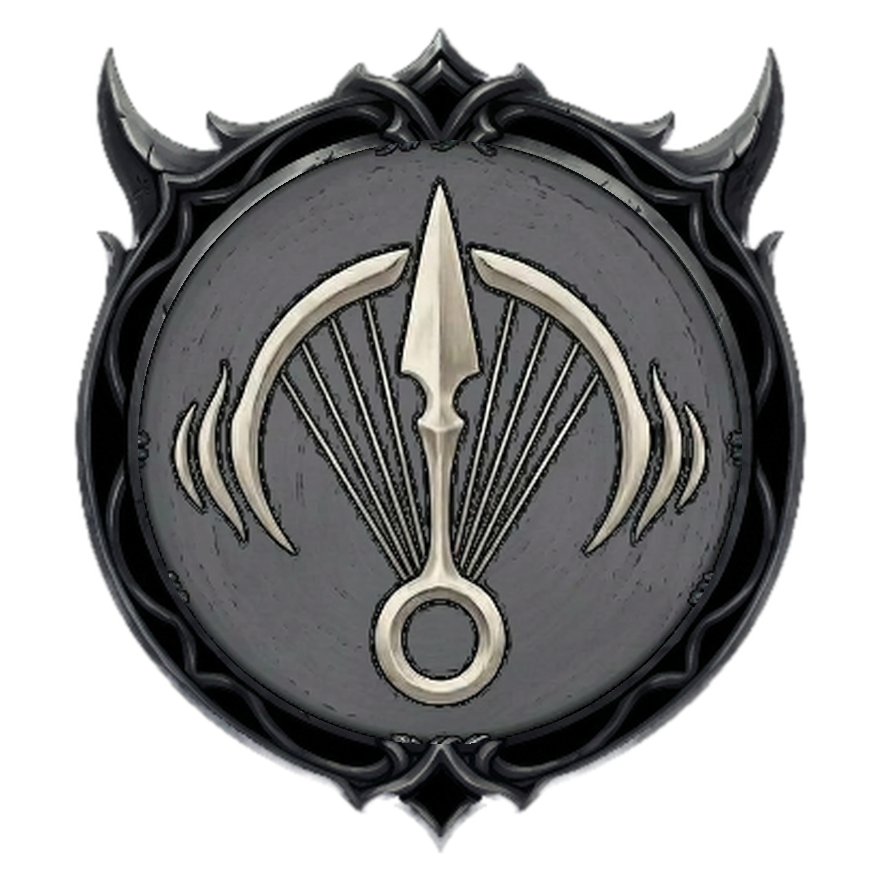
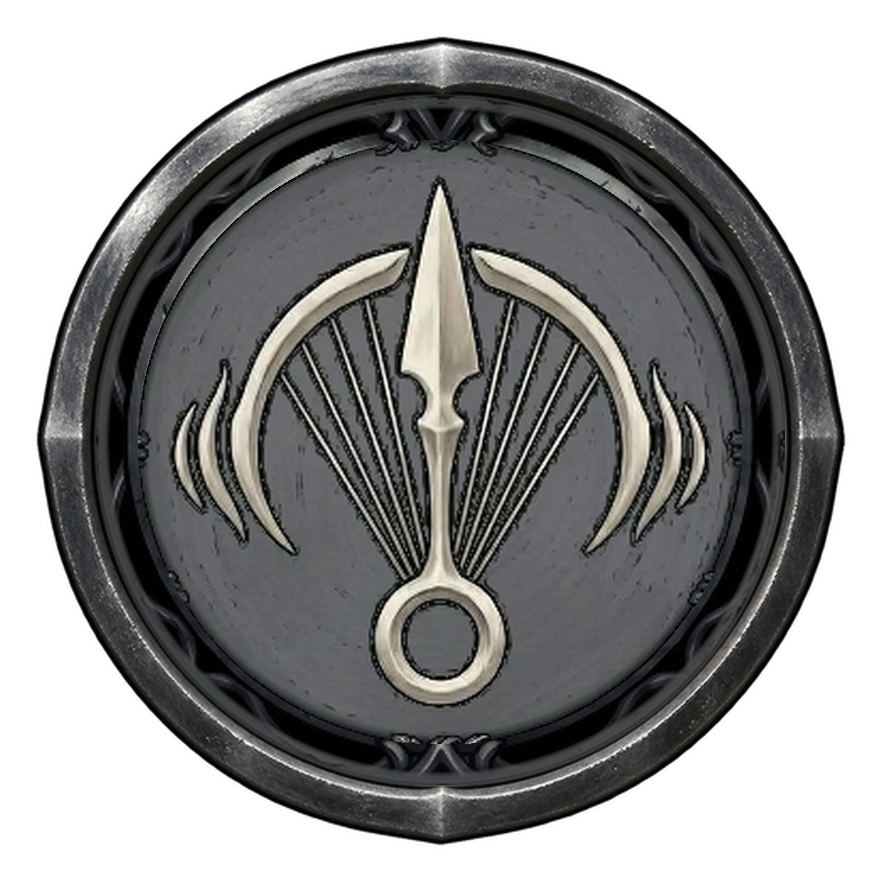
Silksong pad: the quarter-fan layout by default, the eye hides Needolin too, and a layout editor on a long eye press
- k_skin: the approved fan layout (jump the enlarged pivot at the corner,
  attack / dash / bind equal keys on its quarter arc, tool and Clawline in
  the left column, Needolin above Bind, the top row respaced for four)
- Needolin joins grp SK_SKILL: the eye key now hides tool, Clawline and
  Needolin; its black-iron art trades the double-horn frame for the round
  metal ring (the original disc under it, the pressed art likewise)
- Layout editor: holding the eye key 0.6s freezes the pad and shows every
  key; drag to move, tap to select, the bar's - / + steppers scale 0.6-1.6x,
  restore-defaults clears; per-key centre offsets and size multipliers are
  kept in NSUserDefaults (DmPadCustom) and applied in skinCenter / skinR,
  so drawing and hit tests agree in every skin set; the stick is editable
  too and the invisible Up key rides on it

Changed region(s): [[0.0307, 0.0307, 0.9818, 0.9818]]

diff --git a/dm/ios/Sources/DmGamepad.m b/dm/ios/Sources/DmGamepad.m
@@ -30,7 +30,7 @@
 #include <stdatomic.h>
 
 enum { B_A = 0, B_B, B_X, B_Y, B_LS, B_RS, B_L, B_R, B_ZL, B_ZR, B_PLUS, B_MINUS, B_LEFT, B_UP, B_RIGHT, B_DOWN, B_N };
-enum { C_NONE = 0, C_STICK, C_DPAD, C_FACE, C_BTN, C_SWAP, C_GAME };   // which control a touch holds; C_GAME: none, the touch goes to the game's touch screen (finger slot << 8)
+enum { C_NONE = 0, C_STICK, C_DPAD, C_FACE, C_BTN, C_SWAP, C_GAME, C_EDIT };   // which control a touch holds; C_GAME: none, the touch goes to the game's touch screen (finger slot << 8); C_EDIT: the layout editor's drag (the key << 8)
 
 static pthread_mutex_t g_mu = PTHREAD_MUTEX_INITIALIZER;
 static uint64_t g_touch_btn, g_shake_btn;
@@ -133,34 +133,74 @@ int dm_opmode(void);   // hle_oe.c: 0 = handheld
 // Drawn controls are replaced by image controls in the layout of the fan Android port of Silksong: a fixed stick disc
 // bottom-left (its medallion knob follows the touch), the action keys bottom-right in two rows, quick map / inventory / pause
 // small at the top-right. Centres are fractions of the whole screen, radii a fraction of its width. Keys follow the game's
-// Switch defaults. Two skill keys (grp SK_SKILL: tool, Clawline) do nothing until the skill is earned and
+// Switch defaults. Three skill keys (grp SK_SKILL: tool, Clawline, Needolin) do nothing until the skill is earned and
 // the pad cannot know the game's progress, so the eye key (grp SK_TOGGLE, not a game key) shows or hides them for
 // the session; they start hidden at each launch, the eye in its pressed state (the default the player asked
-// for, set explicitly in init).
+// for, set explicitly in init). Holding the eye key for 0.6s instead opens the layout editor: every key (and the
+// stick) can be dragged to a new centre and scaled, the result kept in NSUserDefaults (DmPadCustom, below).
 static BOOL padSkin(void) { const char *e = getenv("DM_PAD_SKIN"); return e && atoi(e); }
 static int silkSkinMode(void) { const char *e = getenv("DM_SILK_SKIN"); int m = e ? atoi(e) : 1; return m < 0 ? 0 : m > 3 ? 3 : m; }   // the launcher's button-skin choice for this pad: 0 glass, 1 the image skin, 2 the letter-badge skin (dm/padskin-badge), 3 the black-iron skin (dm/padskin-metal, the plain set's canvas, so no badge scaling); the image skin (1) when unset
 enum { SK_ALWAYS, SK_SKILL, SK_TOGGLE };
 static const struct { const char *art; int bit; int grp; CGFloat x, y, r; } k_skin[] = {
-    {"attack",   B_Y,     SK_ALWAYS, 0.6919, 0.8198, 0.0389},   // needle attack
-    {"jump",     B_B,     SK_ALWAYS, 0.785, 0.8198, 0.0389},
-    {"dash",     B_ZR,    SK_ALWAYS, 0.878, 0.8198, 0.0389},   // Swift Step: tap dashes, hold sprints
-    {"tool",     B_R,     SK_SKILL,  0.878, 0.4156, 0.0389},   // the equipped tool: the cluster's top right (Needolin's old seat), in its original round frame; an eye-key skill key
-    {"needolin", B_X,     SK_ALWAYS, 0.783, 0.080, 0.023},   // Needolin: the top row, between map and bag, in the double-horn frame; always shown (not an eye-key skill key)
-    {"bind",     B_A,     SK_ALWAYS, 0.878, 0.6177, 0.0389},   // Bind (heal)
-    {"clawline", B_ZL,    SK_SKILL,  0.785, 0.6177, 0.0389},   // Clawline (swapped with Needolin)
-    {"eye",      0,       SK_TOGGLE, 0.672, 0.080, 0.023},   // show / hide the skill keys
-    {"map",      B_L,     SK_ALWAYS, 0.727, 0.080, 0.023},   // quick map (the top row respaced evenly for five keys)
-    {"bag",      B_MINUS, SK_ALWAYS, 0.838, 0.080, 0.023},   // inventory
-    {"pause",    B_PLUS,  SK_ALWAYS, 0.893, 0.080, 0.023},
+    {"attack",   B_Y,     SK_ALWAYS, 0.770, 0.770, 0.0416},   // needle attack: the fan's left key, level with the jump pivot
+    {"jump",     B_B,     SK_ALWAYS, 0.898, 0.770, 0.0533},   // the fan's pivot at the bottom-right corner, the largest key
+    {"dash",     B_ZR,    SK_ALWAYS, 0.808, 0.574, 0.0416},   // Swift Step: tap dashes, hold sprints; the fan's 45-degree key
+    {"tool",     B_R,     SK_SKILL,  0.675, 0.770, 0.0352},   // the equipped tool: the left column, level with attack; an eye-key skill key
+    {"needolin", B_X,     SK_SKILL,  0.898, 0.290, 0.0352},   // Needolin: above Bind, in its original round frame; an eye-key skill key (the eye hides it with the other two)
+    {"bind",     B_A,     SK_ALWAYS, 0.898, 0.493, 0.0416},   // Bind (heal): the fan's top key, straight above the jump pivot
+    {"clawline", B_ZL,    SK_SKILL,  0.675, 0.574, 0.0352},   // Clawline: the left column, level with dash; an eye-key skill key
+    {"eye",      0,       SK_TOGGLE, 0.710, 0.082, 0.0224},   // show / hide the skill keys
+    {"map",      B_L,     SK_ALWAYS, 0.786, 0.082, 0.0224},   // quick map (the top row respaced evenly for four keys)
+    {"bag",      B_MINUS, SK_ALWAYS, 0.862, 0.082, 0.0224},   // inventory
+    {"pause",    B_PLUS,  SK_ALWAYS, 0.938, 0.082, 0.0224},
     {"up",       B_UP,    SK_ALWAYS, 0.162, 0.628, 0.022},   // invisible in both skins (fully transparent art, no glass disc): the game's Up + R tool prompts read the D-pad, never the stick. On the stick disc's own up-pointing rim triangle, small enough that its hit circle (r x 1.35) stops well short of the disc centre, so a centred touch still starts the stick; skinCenter keeps it at raw fractions, anchored to the disc rather than the stacking cluster
 };
 #define SKIN_N (int)(sizeof k_skin / sizeof k_skin[0])
 #define SKIN_REF_HW 0.4615   // the screen the skin layout was measured on (19.5:9): its height as a fraction of its width
-static CGPoint skinCenter(int i, CGRect b) {   // the centre of skin key i, in points (the layout and the touch hit test share it)
+static CGPoint skinCenterRaw(int i, CGRect b) {   // the centre of skin key i from the table alone, in points (the layout and the touch hit test share it)
     CGFloat y = k_skin[i].y;
     if (y > 0.2 && k_skin[i].bit != B_UP)   // an action key: the rows stack up from the bottom row (y 0.822) in width fractions, so the cluster keeps its phone shape on any screen; the top row stays a height fraction (it hugs the top edge). The D-pad Up key is exempt: it is anchored to the stick disc, which sits at raw fractions
         y = 0.822 + (y - 0.822) * SKIN_REF_HW * b.size.width / b.size.height;
     return CGPointMake(k_skin[i].x * b.size.width, y * b.size.height);
+}
+// ---- Custom layout (the eye key's long-press editor) ----
+// The player can move every skin key (and the stick) and scale it between 0.6x and 1.6x; per key only the
+// centre's offset from the table (as screen fractions) and the size multiplier are kept, in NSUserDefaults
+// under DmPadCustom like DmPadLayout is, so an over-install keeps them and "restore defaults" is clearing the
+// key. skinCenter and skinR apply them, so the drawing, the hit test and the hit area all agree, in every skin
+// art set (the geometry is shared). The slot SKIN_N is the stick; the invisible Up key rides on it (its centre
+// and size follow the stick's), being anchored to the disc.
+static NSString *const k_custom_key = @"DmPadCustom";
+static CGFloat g_custDX[SKIN_N + 1], g_custDY[SKIN_N + 1], g_custS[SKIN_N + 1];
+static BOOL g_custReady;
+static void custLoad(void) {
+    if (g_custReady) return; g_custReady = YES;
+    for (int i = 0; i <= SKIN_N; i++) g_custS[i] = 1;
+    NSDictionary *d = [NSUserDefaults.standardUserDefaults dictionaryForKey:k_custom_key];
+    for (int i = 0; i <= SKIN_N; i++) {
+        NSDictionary *e = d[i == SKIN_N ? @"stick" : [NSString stringWithUTF8String:k_skin[i].art]];
+        if (!e) continue;
+        g_custDX[i] = [e[@"dx"] doubleValue]; g_custDY[i] = [e[@"dy"] doubleValue];
+        CGFloat s = [e[@"s"] doubleValue]; if (s >= 0.6 && s <= 1.6) g_custS[i] = s;
+    }
+}
+static void custSave(void) {
+    NSMutableDictionary *d = [NSMutableDictionary dictionary];
+    for (int i = 0; i <= SKIN_N; i++) if (g_custDX[i] || g_custDY[i] || g_custS[i] != 1)
+        d[i == SKIN_N ? @"stick" : [NSString stringWithUTF8String:k_skin[i].art]] = @{@"dx": @(g_custDX[i]), @"dy": @(g_custDY[i]), @"s": @(g_custS[i])};
+    [NSUserDefaults.standardUserDefaults setObject:d forKey:k_custom_key];
+}
+static int custSlot(int i) { return k_skin[i].bit == B_UP ? SKIN_N : i; }   // the Up key's slot is the stick's
+static CGFloat skinR(int i) { custLoad(); return k_skin[i].r * g_custS[custSlot(i)]; }   // skin key i's radius (a fraction of the width) with the player's size multiplier
+static CGPoint clampCentre(CGPoint c, CGFloat rp, CGRect b) {   // keep at least ~40% of the key (2 * rp across) on screen
+    CGFloat m = 0.2 * rp;
+    return CGPointMake(fmin(fmax(c.x, -m), b.size.width + m), fmin(fmax(c.y, -m), b.size.height + m));
+}
+static CGPoint skinCenter(int i, CGRect b) {   // the centre the pad draws and hit-tests at: the table's centre plus the player's custom offset
+    custLoad();
+    CGPoint c = skinCenterRaw(i, b); int s = custSlot(i);
+    c.x += g_custDX[s] * b.size.width; c.y += g_custDY[s] * b.size.height;
+    return clampCentre(c, skinR(i) * b.size.width, b);
 }
 #define SILK_BADGE_SCALE (1020.0 / 880.0)   // the badge set's canvas over the plain set's (the disc sits centred in the larger canvas, badge medallion below it)
 static BOOL silkBadged(const char *name) {   // the padskin keys the badge set bakes a letter medallion into: every k_skin art but the Up key (invisible in both skins, never badged); the eye carries its ON / OFF state word instead of a letter
@@ -395,6 +435,12 @@ static void pads_start(void);   // Physical controllers, below
     CAShapeLayer *_sSym[SKIN_N];                   // drawn glyphs: the - / + bars and the eye's pupil dot (text glyphs ride high, and an eye has no letter)
     UIView *_sStick, *_sKnob;                      // the glass stick disc and its knob
     BOOL _skillOff;                                // the skill keys (grp SK_SKILL) are hidden by the eye key
+    BOOL _editing;                                 // the layout editor is up (a long press on the eye key): the pad drives nothing, every key shows, drags rearrange it
+    int _editSel, _editItem;                       // the editor's selected key and the one being dragged (a k_skin index, SKIN_N = the stick, -1 = none)
+    UITouch *_editTouch; CGPoint _editGrab;        // the editor's drag in flight: its touch and where in the key it holds it
+    UITouch *_eyeTouch; CGPoint _eyePoint; NSTimer *_eyeTimer; BOOL _eyeFired, _eyeMoved;   // the eye key's touch, watched for the editor's long press (a drag of the key in the editor disarms it)
+    UIView *_editBar; UILabel *_editInfo; UIButton *_editMinus, *_editPlus, *_editReset, *_editDone;   // the editor's bar across the top: the selected key's size, its - / + steppers, restore defaults, done
+    CAShapeLayer *_editRing;                       // the ring around the editor's selected key
     CALayer *_skipKey, *_padKey;   // the cutscene keys: the skin's Skip medallion at the Bind key's place, its Pad medallion at the eye key's place (drawn in every skin mode, glass included)
     int _padMode; BOOL _padPeek;                   // the host's pad mode (hle_hid.c dm_pad_mode) and the player's recall of the pad for the rest of the mode
     int _padTab;                                   // the host's inventory tab (dm_pad_tab) as last polled: a change inside the inventory only re-runs refresh (the bag X key follows the crests tab)
@@ -460,6 +506,7 @@ static BOOL fullOnly(int b) { return b == B_LS || b == B_RS || b >= B_LEFT; }   
             _skinDisc = imgLayer(_controls, "stick"); _skinDisc.opacity = 0.75;
             _skinKnob = imgLayer(_controls, "knob"); _skinKnob.opacity = 0.95;
             for (int i = 0; i < SKIN_N; i++) { _skinBtn[i] = imgLayer(_controls, k_skin[i].art); _skinBtn[i].opacity = 1.0; }
+            _editRing = shape(_controls); _editRing.fillColor = nil; _editRing.strokeColor = UIColor.whiteColor.CGColor; _editRing.lineWidth = 2; _editRing.shadowOpacity = 0; _editRing.hidden = YES;   // the layout editor's selection ring
             for (int i = 0; i < SKIN_N; i++) if (silkLetter(i)) { _letBtn[i] = imgLayer(_controls, silkLetter(i)); _letBtn[i].hidden = YES; }   // the controller pages' letter layers: applyPadMode shows each in its key's place
             for (int j = 0; j < TITLE_N; j++) { _titleBtn[j] = imgLayer(_controls, k_title[j].art); _titleBtn[j].hidden = YES; }   // the title screen's letter keys: applyPadMode shows them on the title screen
             for (int j = 0; j < BAG_N; j++) { _bagBtn[j] = imgLayer(_controls, k_bag[j].art); _bagBtn[j].hidden = YES; }   // the bag layout's keys: applyPadMode shows them while the inventory is open
@@ -491,6 +538,14 @@ static BOOL fullOnly(int b) { return b == B_LS || b == B_RS || b >= B_LEFT; }   
             if (!_sSkinMode) { _skinDisc.hidden = YES; _skinKnob.hidden = YES; for (int i = 0; i < SKIN_N; i++) _skinBtn[i].hidden = YES; }
             for (int b = 0; b < B_N; b++) { _key[b].hidden = YES; if (_label[b]) _label[b].hidden = YES; }
             _swap.hidden = YES; _swapLabel.hidden = YES; _ring.hidden = YES; _knob.hidden = YES;
+            _editBar = [[UIView alloc] initWithFrame:CGRectZero];   // the layout editor's bar: built once, shown only while editing (added last, above the glass box)
+            _editBar.backgroundColor = [UIColor colorWithWhite:0 alpha:0.55]; _editBar.layer.cornerRadius = 10; _editBar.hidden = YES;
+            [self addSubview:_editBar];
+            _editInfo = [[UILabel alloc] init]; _editInfo.textColor = UIColor.whiteColor; _editInfo.font = [UIFont systemFontOfSize:16]; [_editBar addSubview:_editInfo];
+            _editMinus = [self editButton:@"-" action:@selector(editMinusTapped)];
+            _editPlus = [self editButton:@"+" action:@selector(editPlusTapped)];
+            _editReset = [self editButton:[NSString stringWithUTF8String:"\xE6\x81\xA2\xE5\xA4\x8D\xE9\xBB\x98\xE8\xAE\xA4"] action:@selector(editResetTapped)];   // "restore defaults"
+            _editDone = [self editButton:[NSString stringWithUTF8String:"\xE5\xAE\x8C\xE6\x88\x90"] action:@selector(editDoneTapped)];   // "done"
             _padMode = dm_pad_mode(); _padTab = dm_pad_tab(); _padPage = dm_pad_page();   // the watcher's state as it stands: -1 (unpublished) until it derives its first mode
             [self applyPadMode];   // the pad starts in that state's own showing: hidden while the game loads to its title screen
         }
@@ -568,10 +623,12 @@ static CGPoint side(CGRect s, int right, CGFloat dx, CGFloat y) { return CGPoint
     switch (b) { case B_A: return CGPointMake(c.x + g, c.y); case B_B: return CGPointMake(c.x, c.y + g); case B_X: return CGPointMake(c.x, c.y - g); default: return CGPointMake(c.x - g, c.y); } }
 - (CGPoint)stickHome {   // the left stick's ring centre; in skin mode the disc centre (a fraction of the whole screen)
     if (_hades) { CGRect b = self.bounds; return CGPointMake(0.168 * b.size.width, 0.664 * b.size.height); }
-    if (_skin) { CGRect b = self.bounds; return CGPointMake(0.162 * b.size.width, 0.742 * b.size.height); }
+    if (_skin) { CGRect b = self.bounds; custLoad();   // the skin's disc, plus the layout editor's custom offset for it
+        CGPoint c = CGPointMake((0.162 + g_custDX[SKIN_N]) * b.size.width, (0.742 + g_custDY[SKIN_N]) * b.size.height);
+        return clampCentre(c, [self stickR:0], b); }
     CGRect s = self.corner; return side(s, 0, K_STICK_X * self.u, CGRectGetMaxY(s) - K_PAD_Y * self.u); }
 - (CGPoint)stickCentre:(int)i { return i ? _rCentre : _hades && _stick[0] ? _lCentre : self.stickHome; }
-- (CGFloat)stickR:(int)i { if (_hades && !i) return 0.061 * self.bounds.size.width; if (_skin && !i) return 0.074 * self.bounds.size.width; return (i ? K_RSTICK_R : K_STICK_R) * self.u; }
+- (CGFloat)stickR:(int)i { if (_hades && !i) return 0.061 * self.bounds.size.width; if (_skin && !i) { custLoad(); return 0.074 * g_custS[SKIN_N] * self.bounds.size.width; } return (i ? K_RSTICK_R : K_STICK_R) * self.u; }
 - (BOOL)inRightArea:(CGPoint)p { CGRect b = self.bounds; return p.x >= CGRectGetMaxX(b) - b.size.width * K_RSWIPE; }
 - (CGPoint)dpadCenter { CGRect s = self.corner; CGFloat u = self.u; return side(s, 0, K_LOW_X * u, CGRectGetMaxY(s) - K_LOW_Y * u); }
 - (CGFloat)dpadR { return K_DPAD_R * self.u; }
@@ -592,7 +649,7 @@ static CGFloat dist(CGPoint a, CGPoint b) { return hypot(a.x - b.x, a.y - b.y); 
     for (int i = 0; i < SKIN_N; i++) { if (_padMode != 6 && _skillOff && k_skin[i].grp == SK_SKILL) continue;
         if (_padMode == 6 && k_skin[i].grp == SK_TOGGLE) continue;
         CGPoint c = skinCenter(i, b);
-        if (dist(p, c) <= k_skin[i].r * b.size.width * 1.35) return i; }
+        if (dist(p, c) <= skinR(i) * b.size.width * 1.35) return i; }
     return -1;
 }
 - (int)bagBtnAt:(CGPoint)p {   // bag mode: the bag key under the point, or -1 (the X key takes no touch while it is hidden off the crests tab)
@@ -714,15 +771,21 @@ static CGFloat dist(CGPoint a, CGPoint b) { return hypot(a.x - b.x, a.y - b.y); 
             game |= [self gameBegin:t]; continue;
         }
         if (_skin) {   // skin mode: an image key, the disc (a fixed stick), else the game's touch screen
-            if ((_padMode == 2 || _padMode == 3) && !_padPeek && dist(p, skinCenter(7, self.bounds)) <= k_skin[7].r * self.bounds.size.width * 1.35) { _padPeek = YES; [self applyPadMode]; continue; }   // the Pad recall key: the pad comes back for the rest of the cutscene
-            if (_padMode == 3 && !_padPeek && dist(p, skinCenter(5, self.bounds)) <= k_skin[5].r * self.bounds.size.width * 1.35) { [_owner setObject:@(C_BTN | (uint64_t)B_A << 8) forKey:t]; continue; }   // the Skip key: A, through the usual input path
+            if (_editing) {   // the layout editor takes every touch: select a key (tap) and move it (drag); nothing reaches the game
+                int it = [self editItemAt:p];
+                if (it >= 0) { _editTouch = t; _editItem = it; _editSel = it; CGPoint c = [self editCentre:it]; _editGrab = CGPointMake(p.x - c.x, p.y - c.y); [_owner setObject:@(C_EDIT | (uint64_t)it << 8) forKey:t];
+                    if (it == 7) { _eyeTouch = t; _eyePoint = p; _eyeFired = NO; _eyeMoved = NO; [self armEyeTimer]; } }   // the eye key in the editor: a still hold leaves the editor (eyeLongPress), a drag just moves it
+                else _editSel = -1;
+                [self updateEditInfo]; [self setNeedsLayout]; continue; }
+            if ((_padMode == 2 || _padMode == 3) && !_padPeek && dist(p, skinCenter(7, self.bounds)) <= skinR(7) * self.bounds.size.width * 1.35) { _padPeek = YES; [self applyPadMode]; continue; }   // the Pad recall key: the pad comes back for the rest of the cutscene
+            if (_padMode == 3 && !_padPeek && dist(p, skinCenter(5, self.bounds)) <= skinR(5) * self.bounds.size.width * 1.35) { [_owner setObject:@(C_BTN | (uint64_t)B_A << 8) forKey:t]; continue; }   // the Skip key: A, through the usual input path
             if (_padMode == 4) { int bb = [self bagBtnAt:p]; if (bb >= 0) { [_owner setObject:@(C_BTN | (uint64_t)k_bag[bb].bit << 8) forKey:t]; continue; } game |= [self gameBegin:t]; continue; }   // the bag layout: its nine keys take the touch (no stick: the disc is gone); every other touch is the game's
             if (_padMode == 5 || _padMode == 7) { int tb = [self titleBtnAt:p]; if (tb >= 0) { [_owner setObject:@(C_BTN | (uint64_t)k_title[tb].bit << 8) forKey:t]; continue; }
                 if (!_stick[0] && dist(p, self.stickHome) <= [self stickR:0] * K_STICK_GRAB) { [_owner setObject:@(C_STICK) forKey:t]; _stick[0] = t; _stickNow[0] = p; continue; }
                 game |= [self gameBegin:t]; continue; }   // the menu pages (and the achievements page, B alone through titleBtnAt): the stick and its letter keys take the touch; every other touch is the game's
             if ([self padHidden]) { game |= [self gameBegin:t]; continue; }   // hidden for a cutscene or a load: the touch is the game's
             int sb = [self skinBtnAt:p];
-            if (sb >= 0 && k_skin[sb].grp == SK_TOGGLE) { _skillOff = !_skillOff; [self refresh]; continue; }   // the eye key only flips the skill keys' visibility
+            if (sb >= 0 && k_skin[sb].grp == SK_TOGGLE) { _eyeTouch = t; _eyePoint = p; _eyeFired = NO; _eyeMoved = NO; [self armEyeTimer]; continue; }   // the eye key: a tap flips the skill keys' visibility when it lifts (endTouches); holding it for 0.6s opens the layout editor instead (eyeLongPress)
             if (sb >= 0) { [_owner setObject:@(C_BTN | (uint64_t)k_skin[sb].bit << 8) forKey:t]; continue; }
             if (!_stick[0] && dist(p, self.stickHome) <= [self stickR:0] * K_STICK_GRAB) { [_owner setObject:@(C_STICK) forKey:t]; _stick[0] = t; _stickNow[0] = p; continue; }
             game |= [self gameBegin:t]; continue;
@@ -749,7 +812,12 @@ static CGFloat dist(CGPoint a, CGPoint b) { return hypot(a.x - b.x, a.y - b.y); 
     BOOL game = NO;
     for (UITouch *t in ts) {
         uint64_t v = [_owner objectForKey:t].unsignedLongLongValue; int c = (int)(v & 0xff); CGPoint p = [t locationInView:self];
-        if (c == C_FACE) [_faceOf setObject:@([self faceAt:p]) forKey:t];
+        if (t == _eyeTouch && dist(p, _eyePoint) > 12) { _eyeMoved = YES; [_eyeTimer invalidate]; _eyeTimer = nil; }   // the eye key's touch became a drag: no long press, and no tap when it lifts either
+        if (c == C_EDIT) { int it = (int)(v >> 8);   // the layout editor's drag: the item's centre follows the finger (clamped like skinCenter's), the offset from the table is what is kept
+            if (t == _editTouch && it == _editItem) { CGRect b = self.bounds; CGPoint raw = [self editRawCentre:it];
+                CGPoint want = clampCentre(CGPointMake(p.x - _editGrab.x, p.y - _editGrab.y), [self editRadius:it], b);
+                g_custDX[it] = (want.x - raw.x) / b.size.width; g_custDY[it] = (want.y - raw.y) / b.size.height; [self setNeedsLayout]; } }
+        else if (c == C_FACE) [_faceOf setObject:@([self faceAt:p]) forKey:t];
         else if (c == C_STICK) { _stickNow[v >> 8] = p;
             if ((v >> 8) == 1) { CGFloat d = dist(p, _rCentre), R = [self stickR:1];   // the right stick's centre follows a finger past its radius, so turning back responds at once
                 if (d > R) _rCentre = CGPointMake(p.x - (p.x - _rCentre.x) * R / d, p.y - (p.y - _rCentre.y) * R / d); } }
@@ -762,6 +830,10 @@ static CGFloat dist(CGPoint a, CGPoint b) { return hypot(a.x - b.x, a.y - b.y); 
     BOOL swap = NO, game = NO;
     for (UITouch *t in ts) {
         uint64_t v = [_owner objectForKey:t].unsignedLongLongValue;
+        if (t == _eyeTouch) { [_eyeTimer invalidate]; _eyeTimer = nil; _eyeTouch = nil;   // the eye key's touch lifts: a plain tap (not a hold, not a drag, not in the editor) flips the skill keys' visibility
+            if (ended && !_eyeFired && !_eyeMoved && !_editing) { _skillOff = !_skillOff; [self refresh]; }
+            _eyeFired = NO; _eyeMoved = NO; }
+        if (t == _editTouch) { _editTouch = nil; _editItem = -1; custSave(); }   // the editor's drag ends: the offset is kept
         if (ended && (v & 0xff) == C_SWAP && [self inSwap:[t locationInView:self]]) swap = YES;   // layout button: counts only when released on the button
         if ((v & 0xff) == C_GAME && (v >> 8) < 16) { _game[v >> 8] = nil; game = YES; }
         [_owner removeObjectForKey:t]; [_faceOf removeObjectForKey:t]; for (int i = 0; i < 2; i++) if (t == _stick[i]) _stick[i] = nil;
@@ -772,7 +844,7 @@ static CGFloat dist(CGPoint a, CGPoint b) { return hypot(a.x - b.x, a.y - b.y); 
 }
 - (void)touchesEnded:(NSSet<UITouch *> *)ts withEvent:(UIEvent *)e { [self endTouches:ts tapped:YES]; }
 - (void)touchesCancelled:(NSSet<UITouch *> *)ts withEvent:(UIEvent *)e { [self endTouches:ts tapped:NO]; }
-- (void)reset { [_owner removeAllObjects]; [_faceOf removeAllObjects]; _stick[0] = _stick[1] = nil; for (int i = 0; i < 16; i++) _game[i] = nil; [self pushGame]; [self recompute]; }
+- (void)reset { [_owner removeAllObjects]; [_faceOf removeAllObjects]; _stick[0] = _stick[1] = nil; for (int i = 0; i < 16; i++) _game[i] = nil; [_eyeTimer invalidate]; _eyeTimer = nil; _eyeTouch = nil; _editTouch = nil; _editItem = -1; [self pushGame]; [self recompute]; }
 // ---- Pad mode (skin mode): the host watches the game's state (hle_hid.c dm_pad_mode) and the pad hides while a cutscene or a load runs ----
 // Mode 1 (a load) hides the pad outright; modes 2 and 3 (a cutscene) show the Pad recall key at the eye key's place, and mode 3 (the
 // cutscene can be skipped) the Skip key at the Bind key's place. Recalling brings the whole pad back for the rest of the mode. While the
@@ -792,10 +864,60 @@ static CGFloat dist(CGPoint a, CGPoint b) { return hypot(a.x - b.x, a.y - b.y); 
 - (BOOL)bagXShown { int t = dm_pad_tab(); return t < 0 || t == 1; }   // the bag's X key serves the crests tab alone: shown on that tab, and while the tab is unknown (the hero unread or a value out of range) -- never hidden on a guess
 - (BOOL)skinKeyHidden:(int)i {   // skin key i's icon layer in the current mode: the one rule applyPadMode and refresh share
     if (!_sSkinMode) return YES;   // the glass choice draws its own discs; the image layers stay hidden under it
+    if (_editing) return NO;   // the layout editor shows every key, the eye's hidden skill keys included
     if ([self padHidden] || _padMode == 4 || _padMode == 5 || _padMode == 7) return YES;
     if (_padMode == 6) { if (k_skin[i].grp == SK_TOGGLE) return YES; return silkLetter(i) != nil; }   // the controller pages: the letter layer takes the icon's place, and the eye hides outright (every key shows there anyway, so it has nothing to toggle)
     return _skillOff && k_skin[i].grp == SK_SKILL;
 }
+// ---- Layout editor (skin mode): a long press on the eye key rearranges the pad ----
+// While the editor is up the pad drives nothing: entering it releases every held touch (reset), its own
+// touches are taken by the editor branch of touchesBegan before any game path, and every key shows (the
+// eye's hidden skill keys dimmed, in the image skins) so they can be placed too. Changes are written to
+// NSUserDefaults as they are made, so leaving by Done or by another long press on the eye keeps them alike.
+- (UIButton *)editButton:(NSString *)title action:(SEL)sel {
+    UIButton *b = [UIButton buttonWithType:UIButtonTypeCustom];
+    [b setTitle:title forState:UIControlStateNormal]; [b setTitleColor:UIColor.whiteColor forState:UIControlStateNormal];
+    b.titleLabel.font = [UIFont systemFontOfSize:17]; b.backgroundColor = [UIColor colorWithWhite:1 alpha:0.15]; b.layer.cornerRadius = 8;
+    [b addTarget:self action:sel forControlEvents:UIControlEventTouchUpInside]; [_editBar addSubview:b]; return b;
+}
+- (void)setEditing:(BOOL)on {
+    if (!_skin || on == _editing) return;
+    _editing = on; _editSel = -1; _editItem = -1; _editTouch = nil;
+    if (on) [self reset];   // held touches end: nothing reaches the game while the pad is rearranged
+    _editBar.hidden = !on; _editRing.hidden = !on;
+    [self applyPadMode]; [self setNeedsLayout]; [self updateEditInfo];
+}
+- (void)armEyeTimer { [_eyeTimer invalidate]; _eyeTimer = [NSTimer scheduledTimerWithTimeInterval:0.6 target:self selector:@selector(eyeLongPress) userInfo:nil repeats:NO]; }
+- (void)eyeLongPress { if (_eyeTouch) { _eyeFired = YES; [self setEditing:!_editing]; } }   // holding the eye key toggles the layout editor; the touch's own lift then does nothing (endTouches checks _eyeFired)
+- (int)editItemAt:(CGPoint)p {   // the editor item under the point: a k_skin index, SKIN_N for the stick, or -1
+    CGRect b = self.bounds;
+    for (int i = 0; i < SKIN_N; i++) { if (k_skin[i].bit == B_UP) continue;   // the Up key rides on the stick: it is not edited on its own
+        if (dist(p, skinCenter(i, b)) <= fmax(skinR(i) * b.size.width * 1.35, 26)) return i; }
+    if (dist(p, self.stickHome) <= [self stickR:0] * 1.25) return SKIN_N;
+    return -1;
+}
+- (CGPoint)editCentre:(int)it { return it == SKIN_N ? self.stickHome : skinCenter(it, self.bounds); }
+- (CGPoint)editRawCentre:(int)it { CGRect b = self.bounds; return it == SKIN_N ? CGPointMake(0.162 * b.size.width, 0.742 * b.size.height) : skinCenterRaw(it, b); }
+- (CGFloat)editRadius:(int)it { return it == SKIN_N ? [self stickR:0] : skinR(it) * self.bounds.size.width; }
+- (void)updateEditInfo {
+    if (!_editInfo) return;
+    if (_editSel < 0) _editInfo.text = [NSString stringWithUTF8String:"\xE9\x80\x89\xE6\x8B\xA9\xE6\x8C\x89\xE9\x94\xAE"];   // "select a key"
+    else _editInfo.text = [NSString stringWithFormat:@"%s %.2fx", _editSel == SKIN_N ? "stick" : k_skin[_editSel].art, g_custS[_editSel]];
+    _editMinus.enabled = _editPlus.enabled = _editSel >= 0;
+    _editMinus.alpha = _editPlus.alpha = _editSel >= 0 ? 1 : 0.35;
+}
+- (void)editScaleBy:(CGFloat)d {
+    if (_editSel < 0) return;
+    g_custS[_editSel] = roundf(fmin(fmax(g_custS[_editSel] + d, 0.6f), 1.6f) * 20) / 20;
+    custSave(); [self setNeedsLayout]; [self updateEditInfo];
+}
+- (void)editMinusTapped { [self editScaleBy:-0.05]; }
+- (void)editPlusTapped { [self editScaleBy:0.05]; }
+- (void)editResetTapped {   // restore defaults: clear every custom value, live
+    for (int i = 0; i <= SKIN_N; i++) { g_custDX[i] = g_custDY[i] = 0; g_custS[i] = 1; }
+    custSave(); [self setNeedsLayout]; [self updateEditInfo]; [self refresh];
+}
+- (void)editDoneTapped { [self setEditing:NO]; }
 - (void)applyPadMode {
     BOOL bag = _padMode == 4;
     BOOL hide = [self padHidden] || bag;   // in the inventory the combat pad is gone either way; the bag layout replaces it
@@ -815,6 +937,7 @@ static CGFloat dist(CGPoint a, CGPoint b) { return hypot(a.x - b.x, a.y - b.y); 
     int m = dm_pad_mode(), t = dm_pad_tab(), pg = dm_pad_page();
     if (m == _padMode && t == _padTab && pg == _padPage) return;
     if (m == _padMode) { _padTab = t; _padPage = pg; [self refresh]; return; }   // a tab or page switch inside one mode: no reset, only the showing follows
+    if (_editing) [self setEditing:NO];   // a mode change ends the edit: the pad it was rearranging gives way
     _padMode = m; _padTab = t; _padPage = pg; _padPeek = NO;
     [self reset];   // held touches end with the mode change: their keys may be hidden now
     [self applyPadMode];
@@ -884,21 +1007,26 @@ static void placeLabel(CATextLayer *t, CGPoint c, CGFloat fs) {
     [CATransaction begin]; [CATransaction setDisableActions:YES];
     _controls.frame = self.layer.bounds;
     if (_skin) {   // the skin's image controls, at fractions of the whole screen (k_skin); the drawn ones stay hidden
-        CGRect b = self.bounds; CGFloat d = 0.148 * b.size.width; CGPoint hc = self.stickHome;
+        CGRect b = self.bounds; custLoad(); CGFloat d = 0.148 * b.size.width * g_custS[SKIN_N]; CGPoint hc = self.stickHome;
         _skinDisc.frame = CGRectMake(hc.x - d / 2, hc.y - d / 2, d, d);
         CGFloat kd = d * 0.67; _skinKnob.bounds = CGRectMake(0, 0, kd, kd); _skinKnob.position = hc;
-        for (int i = 0; i < SKIN_N; i++) { CGFloat dd = k_skin[i].r * 2 * b.size.width * silkArtScale(k_skin[i].art); CGPoint c = skinCenter(i, b);
+        for (int i = 0; i < SKIN_N; i++) { CGFloat dd = skinR(i) * 2 * b.size.width * silkArtScale(k_skin[i].art); CGPoint c = skinCenter(i, b);
             _skinBtn[i].frame = CGRectMake(c.x - dd / 2, c.y - dd / 2, dd, dd); }
-        for (int i = 0; i < SKIN_N; i++) if (_letBtn[i]) { CGFloat dd = k_skin[i].r * 2 * b.size.width * letArtScale(); CGPoint c = skinCenter(i, b);
+        for (int i = 0; i < SKIN_N; i++) if (_letBtn[i]) { CGFloat dd = skinR(i) * 2 * b.size.width * letArtScale(); CGPoint c = skinCenter(i, b);
             _letBtn[i].frame = CGRectMake(c.x - dd / 2, c.y - dd / 2, dd, dd); }   // a letter layer sits exactly where its key's icon sits
         for (int j = 0; j < TITLE_N; j++) { CGFloat dd = k_title[j].r * 2 * b.size.width * letArtScale(); CGPoint c = titleCenter(j, b);
             _titleBtn[j].frame = CGRectMake(c.x - dd / 2, c.y - dd / 2, dd, dd); }
         for (int j = 0; j < BAG_N; j++) { CGFloat dd = k_bag[j].r * 2 * b.size.width * bagArtScale(); CGPoint c = bagCenter(j, b);
             _bagBtn[j].frame = CGRectMake(c.x - dd / 2, c.y - dd / 2, dd, dd); }
-        if (_skipKey) { CGPoint c = skinCenter(5, b); CGFloat dd = k_skin[5].r * 2 * b.size.width; _skipKey.frame = CGRectMake(c.x - dd / 2, c.y - dd / 2, dd, dd); }   // the Skip medallion at the Bind key's place, at its size
-        if (_padKey) { CGPoint c = skinCenter(7, b); CGFloat dd = k_skin[7].r * 2 * b.size.width; _padKey.frame = CGRectMake(c.x - dd / 2, c.y - dd / 2, dd, dd); }   // the Pad medallion at the eye key's place, at its size
+        if (_skipKey) { CGPoint c = skinCenter(5, b); CGFloat dd = skinR(5) * 2 * b.size.width; _skipKey.frame = CGRectMake(c.x - dd / 2, c.y - dd / 2, dd, dd); }   // the Skip medallion at the Bind key's place, at its size
+        if (_padKey) { CGPoint c = skinCenter(7, b); CGFloat dd = skinR(7) * 2 * b.size.width; _padKey.frame = CGRectMake(c.x - dd / 2, c.y - dd / 2, dd, dd); }   // the Pad medallion at the eye key's place, at its size
+        if (_editBar) { CGFloat bw = fmin(600, b.size.width - 16); _editBar.frame = CGRectMake((b.size.width - bw) / 2, self.safeAreaInsets.top + 6, bw, 46);
+            _editInfo.frame = CGRectMake(12, 0, 190, 46); _editMinus.frame = CGRectMake(212, 3, 40, 40); _editPlus.frame = CGRectMake(260, 3, 40, 40);
+            _editReset.frame = CGRectMake(bw - 200, 3, 96, 40); _editDone.frame = CGRectMake(bw - 96, 3, 88, 40); }
+        if (_editRing) { BOOL show = _editing && _editSel >= 0; _editRing.hidden = !show;
+            if (show) setPath(_editRing, circlePath([self editCentre:_editSel], [self editRadius:_editSel] * 1.12 + 4)); }
         if (_sGlassBox) {
-            for (int i = 0; i < SKIN_N; i++) if (_sGlass[i]) { CGFloat r = k_skin[i].r * b.size.width; CGPoint c = skinCenter(i, b);
+            for (int i = 0; i < SKIN_N; i++) if (_sGlass[i]) { CGFloat r = skinR(i) * b.size.width; CGPoint c = skinCenter(i, b);
                 _sGlass[i].frame = CGRectMake(c.x - r, c.y - r, 2 * r, 2 * r); _sGlass[i].layer.cornerRadius = r;
                 setPath(_sWash[i], circlePath(c, r));
                 if (_sLabel[i]) placeLabel(_sLabel[i], c, r * 0.81);   // a notch below the bag labels' r * 1.02 in the loop below: the letter set shrank a notch (make_bagskin's ink 305 against 383 before), and the glass glyphs are the same letters
@@ -969,7 +1097,7 @@ static void placeLabel(CATextLayer *t, CGPoint c, CGFloat fs) {
             BOOL on = (_btnBits >> k_skin[i].bit) & 1;
             UIImage *p = on ? skinPressedImage(i) : nil;
             _skinBtn[i].contents = (id)(p ? p : skinImage(k_skin[i].art)).CGImage;
-            _skinBtn[i].opacity = 1.0;
+            _skinBtn[i].opacity = (_editing && _skillOff && k_skin[i].grp == SK_SKILL) ? 0.45 : 1.0;   // in the editor the eye's hidden skill keys show dimmed: shown (the editor shows every key), but marked as the hidden ones
             _skinBtn[i].transform = on ? CATransform3DMakeScale(0.93, 0.93, 1) : CATransform3DIdentity; }
         if (_sSkinMode) for (int j = 0; j < BAG_N; j++) {   // the bag keys, shown only in the inventory, press like skin keys: the _p art and a dip while held (the X key only on the crests tab)
             _bagBtn[j].hidden = _padMode != 4 || (j == BAG_X && ![self bagXShown]);
@@ -1004,6 +1132,7 @@ static void placeLabel(CATextLayer *t, CGPoint c, CGFloat fs) {
                 BOOL hid = [self padHidden] || _padMode == 4 || (_skillOff && k_skin[i].grp == SK_SKILL && _padMode != 6) || (_padMode == 6 && k_skin[i].grp == SK_TOGGLE);   // the whole key hides, letter and symbol with the disc: the glyph layers live in the overlay, not in the disc view; the controller pages show the skill keys too, their letters being the point, and hide the eye, which has nothing to toggle there
                 if (_padMode == 5) hid = i != 1 && i != 2;   // the title screen: only the jump and dash seats' discs, relabelled A and B in applyPadMode
                 if (_padMode == 7) hid = i != 2;   // the achievements page: the dash seat's disc alone, as B
+                if (_editing) hid = NO;   // the layout editor shows every glass disc too
                 if (_sGlass[i]) _sGlass[i].hidden = hid;
                 if (_sLabel[i]) _sLabel[i].hidden = hid;
                 if (_sSym[i]) _sSym[i].hidden = hid;
@@ -1121,7 +1250,7 @@ static BOOL pads_slotted(GCController *gone) {
     GCController *c = note.object, *gone = [note.name isEqual:GCControllerDidDisconnectNotification] ? c : nil;
     if (c && (!c.extendedGamepad || g_merge)) LOG("controller %s: %s%s", gone ? "disconnected" : "connected", pad_name(c), c.extendedGamepad ? "" : " (no extended gamepad profile: not used)");
     BOOL any = g_merge ? pads_merged(gone) : pads_slotted(gone);
-    dispatch_async(dispatch_get_main_queue(), ^{ self->_padOff = any; self->_controls.hidden = any; self->_glassBox.hidden = any; if (self->_sGlassBox) self->_sGlassBox.hidden = self->_sSkinMode >= 1 || any; [self reset]; });   // the touch gamepad hides while any controller is in use
+    dispatch_async(dispatch_get_main_queue(), ^{ self->_padOff = any; self->_controls.hidden = any; self->_glassBox.hidden = any; if (self->_sGlassBox) self->_sGlassBox.hidden = self->_sSkinMode >= 1 || any; if (any) [self setEditing:NO]; [self reset]; });   // the touch gamepad hides while any controller is in use
 }
 @end
 
